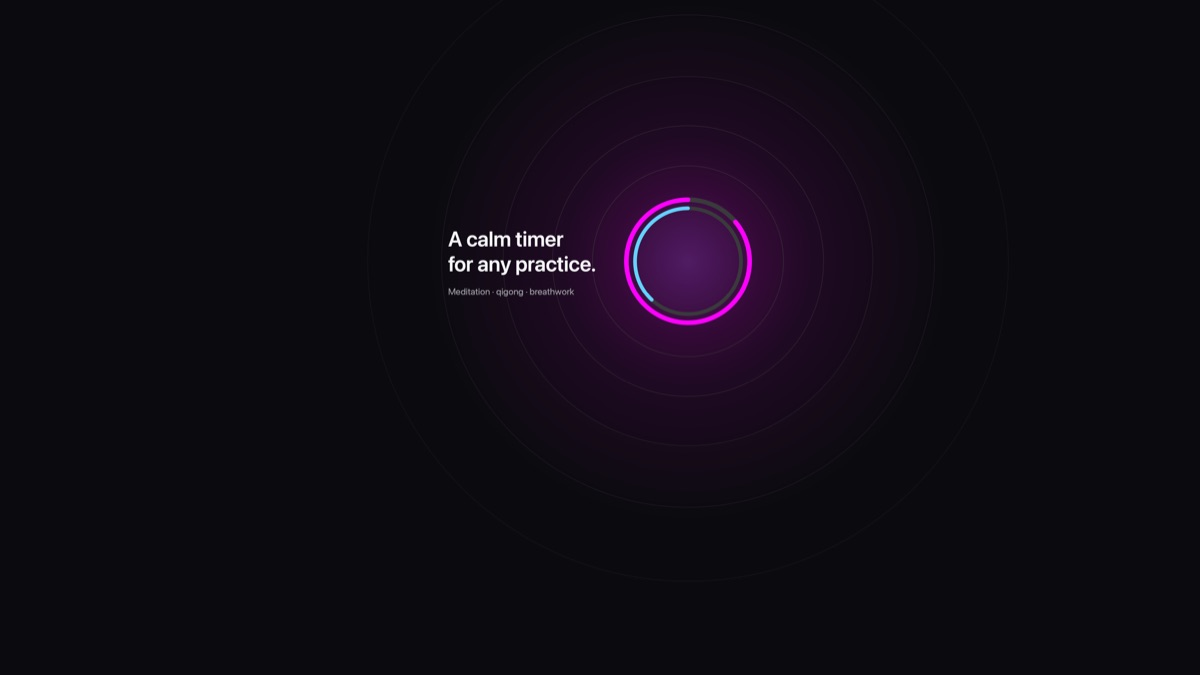
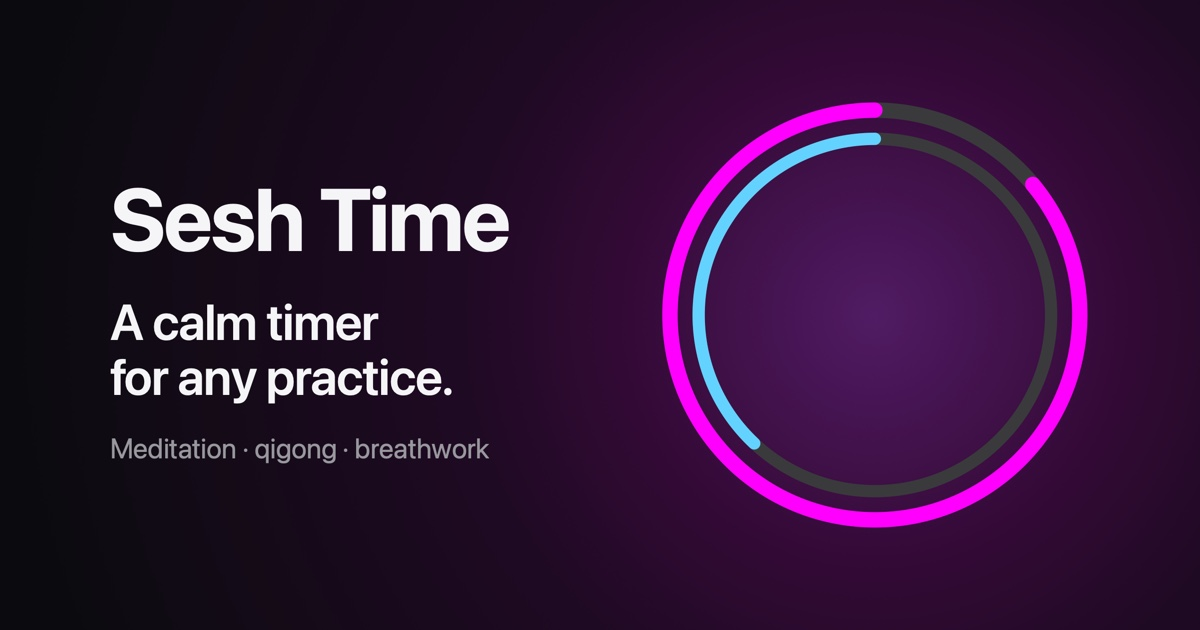
Re-render the Sesh Time share image without the ripple rings
Match the site's cleaner hero: the session and phase rings in their glow,
with the name and tagline sized for a link preview. Now the standard
1200×630 Open Graph size, with its dimensions and alt text declared, and
a ?v=2 query so apps that cached the old image fetch the new one.

diff --git a/seshtime/index.html b/seshtime/index.html
@@ -15,7 +15,10 @@
   <meta property="og:title" content="Sesh Time · A calm timer for any practice">
   <meta property="og:description" content="A calm interval timer for meditation, qigong, breathwork and any practice you keep.">
   <meta property="og:url" content="https://cocoabeans.github.io/apps/seshtime/">
-  <meta property="og:image" content="https://cocoabeans.github.io/apps/seshtime/media/og-image.jpg">
+  <meta property="og:image" content="https://cocoabeans.github.io/apps/seshtime/media/og-image.jpg?v=2">
+  <meta property="og:image:width" content="1200">
+  <meta property="og:image:height" content="630">
+  <meta property="og:image:alt" content="Sesh Time: a calm timer for any practice. The app's magenta and cyan progress rings glowing on a dark background.">
   <meta name="twitter:card" content="summary_large_image">
   <link rel="stylesheet" href="style.css">
 </head>

diff --git a/seshtime/support.html b/seshtime/support.html
@@ -11,7 +11,7 @@
   <link rel="icon" type="image/png" href="media/favicon-64.png">
   <link rel="apple-touch-icon" href="media/apple-touch-icon.png">
   <meta property="og:title" content="Sesh Time · Help and feedback">
-  <meta property="og:image" content="https://cocoabeans.github.io/apps/seshtime/media/og-image.jpg">
+  <meta property="og:image" content="https://cocoabeans.github.io/apps/seshtime/media/og-image.jpg?v=2">
   <link rel="stylesheet" href="style.css">
 </head>
 <body>
